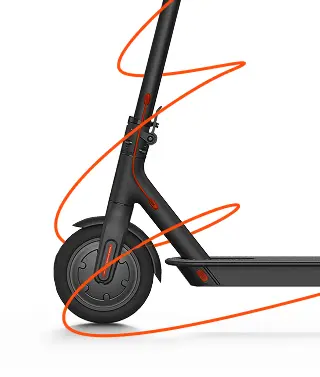
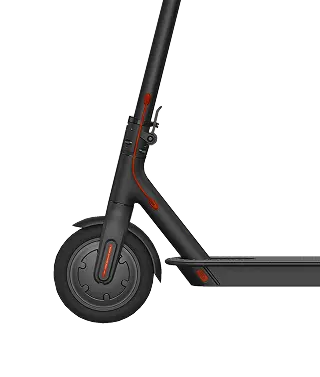
Update styles hero

diff --git a/css/main.min.css b/css/main.min.css
@@ -1,1 +1,1 @@
-.visually-hidden{position:absolute;white-space:nowrap;width:1px;height:1px;overflow:hidden;border:0;padding:0;clip:rect(0 0 0 0);clip-path:inset(50%);margin:-1px}*,*::before,*::after{margin:0;padding:0;border:0;-webkit-box-sizing:border-box;box-sizing:border-box}a,*::before,*::after{display:inline-block}html,body{min-width:320px;height:100%}body{font-family:"Gilroy",sans-serif;font-size:14px;line-height:1.5;color:#151515;background-color:#e0e0e0}html{scroll-behavior:smooth}a{color:inherit;text-decoration:none}ul,ol,li{list-style:none}button{cursor:pointer;background-color:inherit}img{vertical-align:top}h1,h2,h3,h4,h5,h6{font-weight:inherit;font-size:inherit}button,input{font-weight:inherit;font-size:inherit;color:inherit;font-family:inherit}@font-face{font-family:"Gilroy";src:url("../../fonts/Gilroy-Regular.woff2") format("woff2");font-weight:normal;font-style:normal;font-display:swap}@font-face{font-family:"Gilroy";src:url("../fonts/Gilroy-Bold.woff2") format("woff2");font-weight:bold;font-style:normal;font-display:swap}@font-face{font-family:"Gilroy";src:url("../fonts/Gilroy-Semibold.woff2") format("woff2");font-weight:600;font-style:normal;font-display:swap}@font-face{font-family:"Gilroy";src:url("../fonts/Gilroy-Medium.woff2") format("woff2");font-weight:500;font-style:normal;font-display:swap}[class*=__container]{max-width:320px;margin:0 auto;padding:0 20px}@media(min-width: 640px){[class*=__container]{max-width:640px;padding:0 40px}}@media(min-width: 1440px){[class*=__container]{max-width:1440px;padding:0 140px}}.section-title{font-weight:600;font-size:25px;line-height:1.2;color:#f1f1f1}@media(min-width: 640px){.section-title{font-size:30px;line-height:1.1}}@media(min-width: 1440px){.section-title{font-weight:500;font-size:45px;line-height:1.1;color:#ff4c0d}}.header{position:absolute;top:0;left:0;width:100%;z-index:100;padding-top:20px}.header__container{display:-webkit-box;display:-ms-flexbox;display:flex;-webkit-box-align:center;-ms-flex-align:center;align-items:center;-webkit-box-pack:justify;-ms-flex-pack:justify;justify-content:space-between;min-height:56px}.logo{z-index:2}.menu__list{display:-webkit-box;display:-ms-flexbox;display:flex;gap:30px}@media(min-width: 1440px){.menu__list{-webkit-box-orient:horizontal;-webkit-box-direction:normal;-ms-flex-direction:row;flex-direction:row;gap:40px}}.menu__link{position:relative;font-weight:400;letter-spacing:-0.01em;-webkit-transition:color .3s linear;transition:color .3s linear}.menu__link:hover,.menu__link:focus{color:#ff4c0d}.menu__link::after{content:"";position:absolute;width:0;height:2px;display:block;margin-top:5px;right:0;background:#ff4c0d;-webkit-transition:width .3s ease;transition:width .3s ease;-webkit-transition:width .6s ease}.menu__link:hover::after,.menu__link:focus::after{width:100%;left:0}.icon-menu{display:none}@media(max-width: 1439px){.icon-menu{display:-webkit-box;display:-ms-flexbox;display:flex;-webkit-box-align:center;-ms-flex-align:center;align-items:center;-webkit-box-pack:center;-ms-flex-pack:center;justify-content:center;width:45px;height:45px;background-color:#f1f1f1;border-radius:50%;position:relative;z-index:5}.icon-menu span,.icon-menu::before,.icon-menu::after{content:"";position:absolute;width:70%;height:2px;background-color:#151515;-webkit-transition:all .3s linear;transition:all .3s linear}.icon-menu::before{top:14px}.icon-menu::after{bottom:14px}.icon-menu span{top:calc(50% - 1px)}.menu-open .icon-menu span{width:0}.menu-open .icon-menu::before{top:calc(50% - 1px);-webkit-transform:rotate(-45deg);transform:rotate(-45deg)}.menu-open .icon-menu::after{bottom:calc(50% - 1px);-webkit-transform:rotate(45deg);transform:rotate(45deg)}.menu__body{position:fixed;width:100%;height:100%;background:#865a4b;left:-100%;top:0;display:-webkit-box;display:-ms-flexbox;display:flex;-webkit-box-orient:vertical;-webkit-box-direction:normal;-ms-flex-direction:column;flex-direction:column;-webkit-box-pack:justify;-ms-flex-pack:justify;justify-content:space-between;padding:200px 15px 30px 15px;font-size:22px;overflow:auto;-webkit-transition:left .3s linear;transition:left .3s linear;background-repeat:no-repeat;background-position:top center;z-index:1}.menu__body::before{content:"";width:100%;position:fixed;top:0;left:-100%;height:85px;background:#865a4b;z-index:2;-webkit-transition:left .3s linear;transition:left .3s linear}.menu-open .menu__body,.menu-open .menu__body::before{left:0}.menu__list{display:-webkit-box;display:-ms-flexbox;display:flex;-webkit-box-orient:vertical;-webkit-box-direction:normal;-ms-flex-direction:column;flex-direction:column;gap:34px;text-align:center}}.hero{padding-top:300px;background-image:-webkit-image-set("../images/hero/hero-mobile.avif" type("image/avif"), "../images/hero/hero-mobile.webp" type("image/webp"), "../images/hero/hero-mobile.jpg" type("image/jpeg"));background-image:image-set("../images/hero/hero-mobile.avif" type("image/avif"), "../images/hero/hero-mobile.webp" type("image/webp"), "../images/hero/hero-mobile.jpg" type("image/jpeg"));background-repeat:no-repeat;background-position:center;background-size:cover;height:100vh}/*# sourceMappingURL=main.min.css.map */
+.visually-hidden{position:absolute;white-space:nowrap;width:1px;height:1px;overflow:hidden;border:0;padding:0;clip:rect(0 0 0 0);clip-path:inset(50%);margin:-1px}*,*::before,*::after{margin:0;padding:0;border:0;-webkit-box-sizing:border-box;box-sizing:border-box}a,*::before,*::after{display:inline-block}html,body{min-width:320px;height:100%}body{font-family:"Gilroy",sans-serif;font-size:14px;line-height:1.5;color:#151515;background-color:#e0e0e0}html{scroll-behavior:smooth}a{color:inherit;text-decoration:none}ul,ol,li{list-style:none}button{cursor:pointer;background-color:inherit}img{vertical-align:top}h1,h2,h3,h4,h5,h6{font-weight:inherit;font-size:inherit}button,input{font-weight:inherit;font-size:inherit;color:inherit;font-family:inherit}@font-face{font-family:"Gilroy";src:url("../../fonts/Gilroy-Regular.woff2") format("woff2");font-weight:normal;font-style:normal;font-display:swap}@font-face{font-family:"Gilroy";src:url("../fonts/Gilroy-Bold.woff2") format("woff2");font-weight:bold;font-style:normal;font-display:swap}@font-face{font-family:"Gilroy";src:url("../fonts/Gilroy-Semibold.woff2") format("woff2");font-weight:600;font-style:normal;font-display:swap}@font-face{font-family:"Gilroy";src:url("../fonts/Gilroy-Medium.woff2") format("woff2");font-weight:500;font-style:normal;font-display:swap}[class*=__container]{max-width:320px;margin:0 auto;padding:0 20px}@media(min-width: 640px){[class*=__container]{max-width:640px;padding:0 40px}}@media(min-width: 1440px){[class*=__container]{max-width:1440px;padding:0 140px}}.section-title{font-weight:600;font-size:25px;line-height:1.2;color:#f1f1f1}@media(min-width: 640px){.section-title{font-size:30px;line-height:1.1}}@media(min-width: 1440px){.section-title{font-weight:500;font-size:45px;line-height:1.1;color:#ff4c0d}}.header{position:absolute;top:0;left:0;width:100%;z-index:100;padding-top:20px}.header__container{display:-webkit-box;display:-ms-flexbox;display:flex;-webkit-box-align:center;-ms-flex-align:center;align-items:center;-webkit-box-pack:justify;-ms-flex-pack:justify;justify-content:space-between;min-height:56px}.logo{z-index:2}.menu__list{display:-webkit-box;display:-ms-flexbox;display:flex;gap:30px}@media(min-width: 1440px){.menu__list{-webkit-box-orient:horizontal;-webkit-box-direction:normal;-ms-flex-direction:row;flex-direction:row;gap:40px}}.menu__link{position:relative;font-weight:400;letter-spacing:-0.01em;-webkit-transition:color .3s linear;transition:color .3s linear}.menu__link:hover,.menu__link:focus{color:#ff4c0d}.menu__link::after{content:"";position:absolute;width:0;height:2px;display:block;margin-top:5px;right:0;background:#ff4c0d;-webkit-transition:width .3s ease;transition:width .3s ease;-webkit-transition:width .6s ease}.menu__link:hover::after,.menu__link:focus::after{width:100%;left:0}.icon-menu{display:none}@media(max-width: 1439px){.icon-menu{display:-webkit-box;display:-ms-flexbox;display:flex;-webkit-box-align:center;-ms-flex-align:center;align-items:center;-webkit-box-pack:center;-ms-flex-pack:center;justify-content:center;width:45px;height:45px;background-color:#f1f1f1;border-radius:50%;position:relative;z-index:5}.icon-menu span,.icon-menu::before,.icon-menu::after{content:"";position:absolute;width:70%;height:2px;background-color:#151515;-webkit-transition:all .3s linear;transition:all .3s linear}.icon-menu::before{top:14px}.icon-menu::after{bottom:14px}.icon-menu span{top:calc(50% - 1px)}.menu-open .icon-menu span{width:0}.menu-open .icon-menu::before{top:calc(50% - 1px);-webkit-transform:rotate(-45deg);transform:rotate(-45deg)}.menu-open .icon-menu::after{bottom:calc(50% - 1px);-webkit-transform:rotate(45deg);transform:rotate(45deg)}.menu__body{position:fixed;width:100%;height:100%;background:#865a4b;left:-100%;top:0;display:-webkit-box;display:-ms-flexbox;display:flex;-webkit-box-orient:vertical;-webkit-box-direction:normal;-ms-flex-direction:column;flex-direction:column;-webkit-box-pack:justify;-ms-flex-pack:justify;justify-content:space-between;padding:200px 15px 30px 15px;font-size:22px;overflow:auto;-webkit-transition:left .3s linear;transition:left .3s linear;background-repeat:no-repeat;background-position:top center;z-index:1}.menu__body::before{content:"";width:100%;position:fixed;top:0;left:-100%;height:85px;background:#865a4b;z-index:2;-webkit-transition:left .3s linear;transition:left .3s linear}.menu-open .menu__body,.menu-open .menu__body::before{left:0}.menu__list{display:-webkit-box;display:-ms-flexbox;display:flex;-webkit-box-orient:vertical;-webkit-box-direction:normal;-ms-flex-direction:column;flex-direction:column;gap:34px;text-align:center}}.hero{margin:0 auto}.hero__image{display:block;position:relative}.hero__image::after{content:"";position:absolute;top:0;left:0;width:100%;height:100%;background-image:url("../images/hero/hero-decor.webp")}/*# sourceMappingURL=main.min.css.map */

diff --git a/index.html b/index.html
@@ -47,18 +47,27 @@
     <main>
       <!-- Hero -->
       <section class="hero">
-        <h1 class="hero__title">
-          Стильный электросамокат с мощным аккумулятором
-        </h1>
-        <p class="hero__text">
-          Улучшенная производительность для дальних путешествий. Работает так же
-          просто, как и выглядит.
-        </p>
-        <div class="theme-toggle" role="group" aria-label="Переключение темы">
-          <button id="light-btn" class="active" aria-label="Светлая тема">
-            Белый
-          </button>
-          <button id="dark-btn" aria-label="Тёмная тема">Черный</button>
+        <div class="hero__container">
+          <picture>
+            <source
+              srcset="./images/hero/hero-mobile.webp"
+              type="image/webp"
+            >
+            <img class="hero__image" src="./images/hero/hero-mobile.png" alt="электро байк">
+          </picture>
+          <h1 class="hero__title">
+            Стильный электросамокат с мощным аккумулятором
+          </h1>
+          <p class="hero__text">
+            Улучшенная производительность для дальних путешествий. Работает так
+            же просто, как и выглядит.
+          </p>
+          <div class="theme-toggle" role="group" aria-label="Переключение темы">
+            <button id="light-btn" class="active" aria-label="Светлая тема">
+              Белый
+            </button>
+            <button id="dark-btn" aria-label="Тёмная тема">Черный</button>
+          </div>
         </div>
       </section>
     </main>

diff --git a/css/main.css b/css/main.css
@@ -335,11 +335,20 @@ input {
   }
 }
 .hero {
-  padding-top: 300px;
-  background-image: -webkit-image-set("../images/hero/hero-mobile.avif" type("image/avif"), "../images/hero/hero-mobile.webp" type("image/webp"), "../images/hero/hero-mobile.jpg" type("image/jpeg"));
-  background-image: image-set("../images/hero/hero-mobile.avif" type("image/avif"), "../images/hero/hero-mobile.webp" type("image/webp"), "../images/hero/hero-mobile.jpg" type("image/jpeg"));
-  background-repeat: no-repeat;
-  background-position: center;
-  background-size: cover;
-  height: 100vh;
+  margin: 0 auto;
+}
+
+.hero__image {
+  display: block;
+  position: relative;
+}
+
+.hero__image::after {
+  content: "";
+  position: absolute;
+  top: 0;
+  left: 0;
+  width: 100%;
+  height: 100%;
+  background-image: url("../images/hero/hero-decor.webp");
 }/*# sourceMappingURL=main.css.map */

diff --git a/sass/layout/_hero.scss b/sass/layout/_hero.scss
@@ -1,13 +1,20 @@
+@use '../utils/variables' as *;
+
 .hero {
-  padding-top: 300px;
-  
-  background-image: image-set(
-    '../images/hero/hero-mobile.avif' type('image/avif'),
-    '../images/hero/hero-mobile.webp' type('image/webp'),
-    '../images/hero/hero-mobile.jpg' type('image/jpeg')
-  );
-  background-repeat: no-repeat;
-  background-position: center;
-  background-size: cover;
-   height: 100vh;
+  margin: 0 auto;
+}
+
+.hero__image {
+  display: block;
+  position: relative;
+}
+
+.hero__image::after {
+  content: '';
+  position: absolute;
+  top: 0;
+  left: 0;
+  width: 100%;
+  height: 100%;
+  background-image: url('../images/hero/hero-decor.webp');
 }
